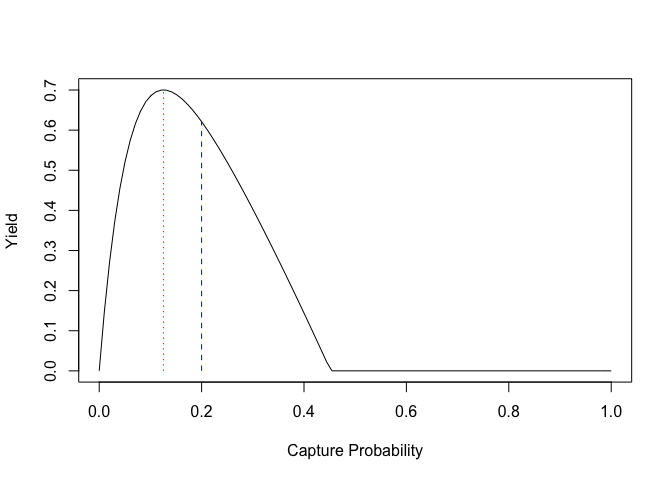
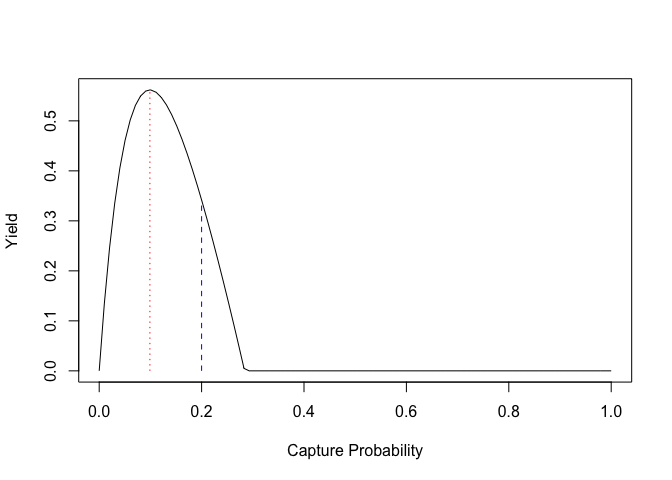
- Added vulnerability power `Vp`

diff --git a/README.md b/README.md
@@ -11,71 +11,66 @@ MIT](https://img.shields.io/badge/License-MIT-green.svg)](https://opensource.org
 
 # ypr
 
-ypr is an implementation of yield per recruit methods for recreational
-fisheries in R. Given a list of life history parameters it can generate
-a data frame of the schedule and find the capture rate which maximises
-the yield. The yield, which is provided in terms of the proportion of
-the unfished population, can be based on the total biomass vs number of
-fish; harvested vs captured and large (trophy) versus all fish. The
-yield can be calculated with lower and upper limits that represent the
-uncertainty in one or more life history parameters.
+## Introduction
+
+`ypr` is an R package that implements yield per recruit methods (Walters
+and Martell 2004).
+
+The yield, which is provided in terms of the proportion of the unfished
+population, can be based on the total biomass vs number of fish,
+harvested vs captured and large (trophy) versus all fish.
+
+The yield can also be calculated with lower and upper limits that
+represent the uncertainty in one or more life history parameters.
 
 The key life history parameters are
 
-  - The growth coefficient (\(k\)) and mean maximum length
-    (\(L_\infty\)) from the Von Bertalanffy growth curve
-    \(L = L_\infty \cdot (1 - \exp(-k \cdot \text{age}))\).
-  - The condition scaling exponent (\(\beta\)) from the weight-length
-    relationship \(W = \alpha \cdot L^\beta\)
-  - The length at maturity (\(L_m\))
-  - The length at which vulnerable to harvest (\(L_v\))
-  - The number of spawners per spawner at low density (\(R_k\))
+  - The growth coefficient (`k`) and mean maximum length (`Linf`) from
+    the Von Bertalanffy growth curve
+  - The condition scaling exponent (`b`) from the weight-length
+    relationship
+  - The length at maturity (`Lm`)
+  - The length at which 50% vulnerable to harvest (`Lv`)
+  - The number of spawners per spawner at low density (`Rk`)
+
+The calculations do not account for environmental fluctuations,
+predator-prey dynamics, angler responses or density-dependent growth.
 
 ## Demonstration
 
 ``` r
 library(ypr)
-population <- ypr_population()
+population <- ypr_population(Rk = 3)
 ypr_schedule(population)
-#> # A tibble: 20 x 9
-#>      Age Length  Weight Fecundity NaturalMortality Capture Release
-#>    <int>  <dbl>   <dbl>     <dbl>            <dbl>   <dbl>   <dbl>
-#>  1     1   13.9   2703.        0               0.2     0         1
-#>  2     2   25.9  17411.        0               0.2     0         1
-#>  3     3   36.2  47584.        0               0.2     0         1
-#>  4     4   45.1  91849.        0               0.2     0         1
-#>  5     5   52.8 146892.   146892.              0.2     0.2       0
-#>  6     6   59.3 208982.   208982.              0.2     0.2       0
-#>  7     7   65.0 274704.   274704.              0.2     0.2       0
-#>  8     8   69.9 341248.   341248.              0.2     0.2       0
-#>  9     9   74.1 406473.   406473.              0.2     0.2       0
-#> 10    10   77.7 468862.   468862.              0.2     0.2       0
-#> 11    11   80.8 527416.   527416.              0.2     0.2       0
-#> 12    12   83.5 581558.   581558.              0.2     0.2       0
-#> 13    13   85.8 631024.   631024.              0.2     0.2       0
-#> 14    14   87.8 675781.   675781.              0.2     0.2       0
-#> 15    15   89.5 715958.   715958.              0.2     0.2       0
-#> 16    16   90.9 751789.   751789.              0.2     0.2       0
-#> 17    17   92.2 783569.   783569.              0.2     0.2       0
-#> 18    18   93.3 811630.   811630.              0.2     0.2       0
-#> 19    19   94.2 836311.   836311.              0.2     0.2       0
-#> 20    20   95.0 857952.   857952.              1       0.2       0
-#> # ... with 2 more variables: FishingMortality <dbl>, Productivity <dbl>
+#> # A tibble: 20 x 10
+#>      Age Length  Weight Fecundity NaturalMortality Vulnerability  Capture
+#>    <int>  <dbl>   <dbl>     <dbl>            <dbl>         <dbl>    <dbl>
+#>  1     1   13.9   2703.        0               0.2       0.00168 0.000335
+#>  2     2   25.9  17411.        0               0.2       0.0361  0.00722 
+#>  3     3   36.2  47584.        0               0.2       0.167   0.0333  
+#>  4     4   45.1  91849.        0               0.2       0.374   0.0749  
+#>  5     5   52.8 146892.   146892.              0.2       0.567   0.113   
+#>  6     6   59.3 208982.   208982.              0.2       0.702   0.140   
+#>  7     7   65.0 274704.   274704.              0.2       0.788   0.158   
+#>  8     8   69.9 341248.   341248.              0.2       0.842   0.168   
+#>  9     9   74.1 406473.   406473.              0.2       0.877   0.175   
+#> 10    10   77.7 468862.   468862.              0.2       0.901   0.180   
+#> 11    11   80.8 527416.   527416.              0.2       0.917   0.183   
+#> 12    12   83.5 581558.   581558.              0.2       0.928   0.186   
+#> 13    13   85.8 631024.   631024.              0.2       0.937   0.187   
+#> 14    14   87.8 675781.   675781.              0.2       0.943   0.189   
+#> 15    15   89.5 715958.   715958.              0.2       0.948   0.190   
+#> 16    16   90.9 751789.   751789.              0.2       0.952   0.190   
+#> 17    17   92.2 783569.   783569.              0.2       0.955   0.191   
+#> 18    18   93.3 811630.   811630.              0.2       0.958   0.192   
+#> 19    19   94.2 836311.   836311.              0.2       0.960   0.192   
+#> 20    20   95.0 857952.   857952.              1         0.961   0.192   
+#> # ... with 3 more variables: Release <dbl>, FishingMortality <dbl>,
+#> #   Productivity <dbl>
 ypr_plot(population)
 ```
 
 <img src="man/figures/README-unnamed-chunk-1-1.png" width="100%" />
-
-## Assumptions and Limitation
-
-The calculations assume that growth follows a von Bertalanffy growth
-curve; maturation is length based; vulnerability to the fishery is
-knife-edged and natural, capture, release and hooking mortalities are
-constant from the recruitment age. It also assumes that a released
-individual cannot be recaught in the same year.
-
-The calculations do not account for population fluctuations, food-web
-responses or density-dependent growth.
 
 ## Installation
 
@@ -103,3 +98,16 @@ always welcome.
 Please note that this project is released with a [Contributor Code of
 Conduct](CONDUCT.md). By participating in this project you agree to
 abide by its terms.
+
+## References
+
+<div id="refs" class="references">
+
+<div id="ref-walters_fisheries_2004">
+
+Walters, Carl J., and Steven J. D. Martell. 2004. *Fisheries Ecology and
+Management*. Princeton, N.J: Princeton University Press.
+
+</div>
+
+</div>

diff --git a/NEWS.md b/NEWS.md
@@ -1,5 +1,6 @@
 - Added `ypr_yield_uncertainty()`, `ypr_yields_uncertainty()` and 
 `ypr_optimize_uncertainty()` to account for uncertainty in parameters.
+- Added vulnerability power `Vp`.
 - Increased upper limit for `Rk` from 10 to 100.
 - Removed `a` and `fa` as just scaling terms.
 
